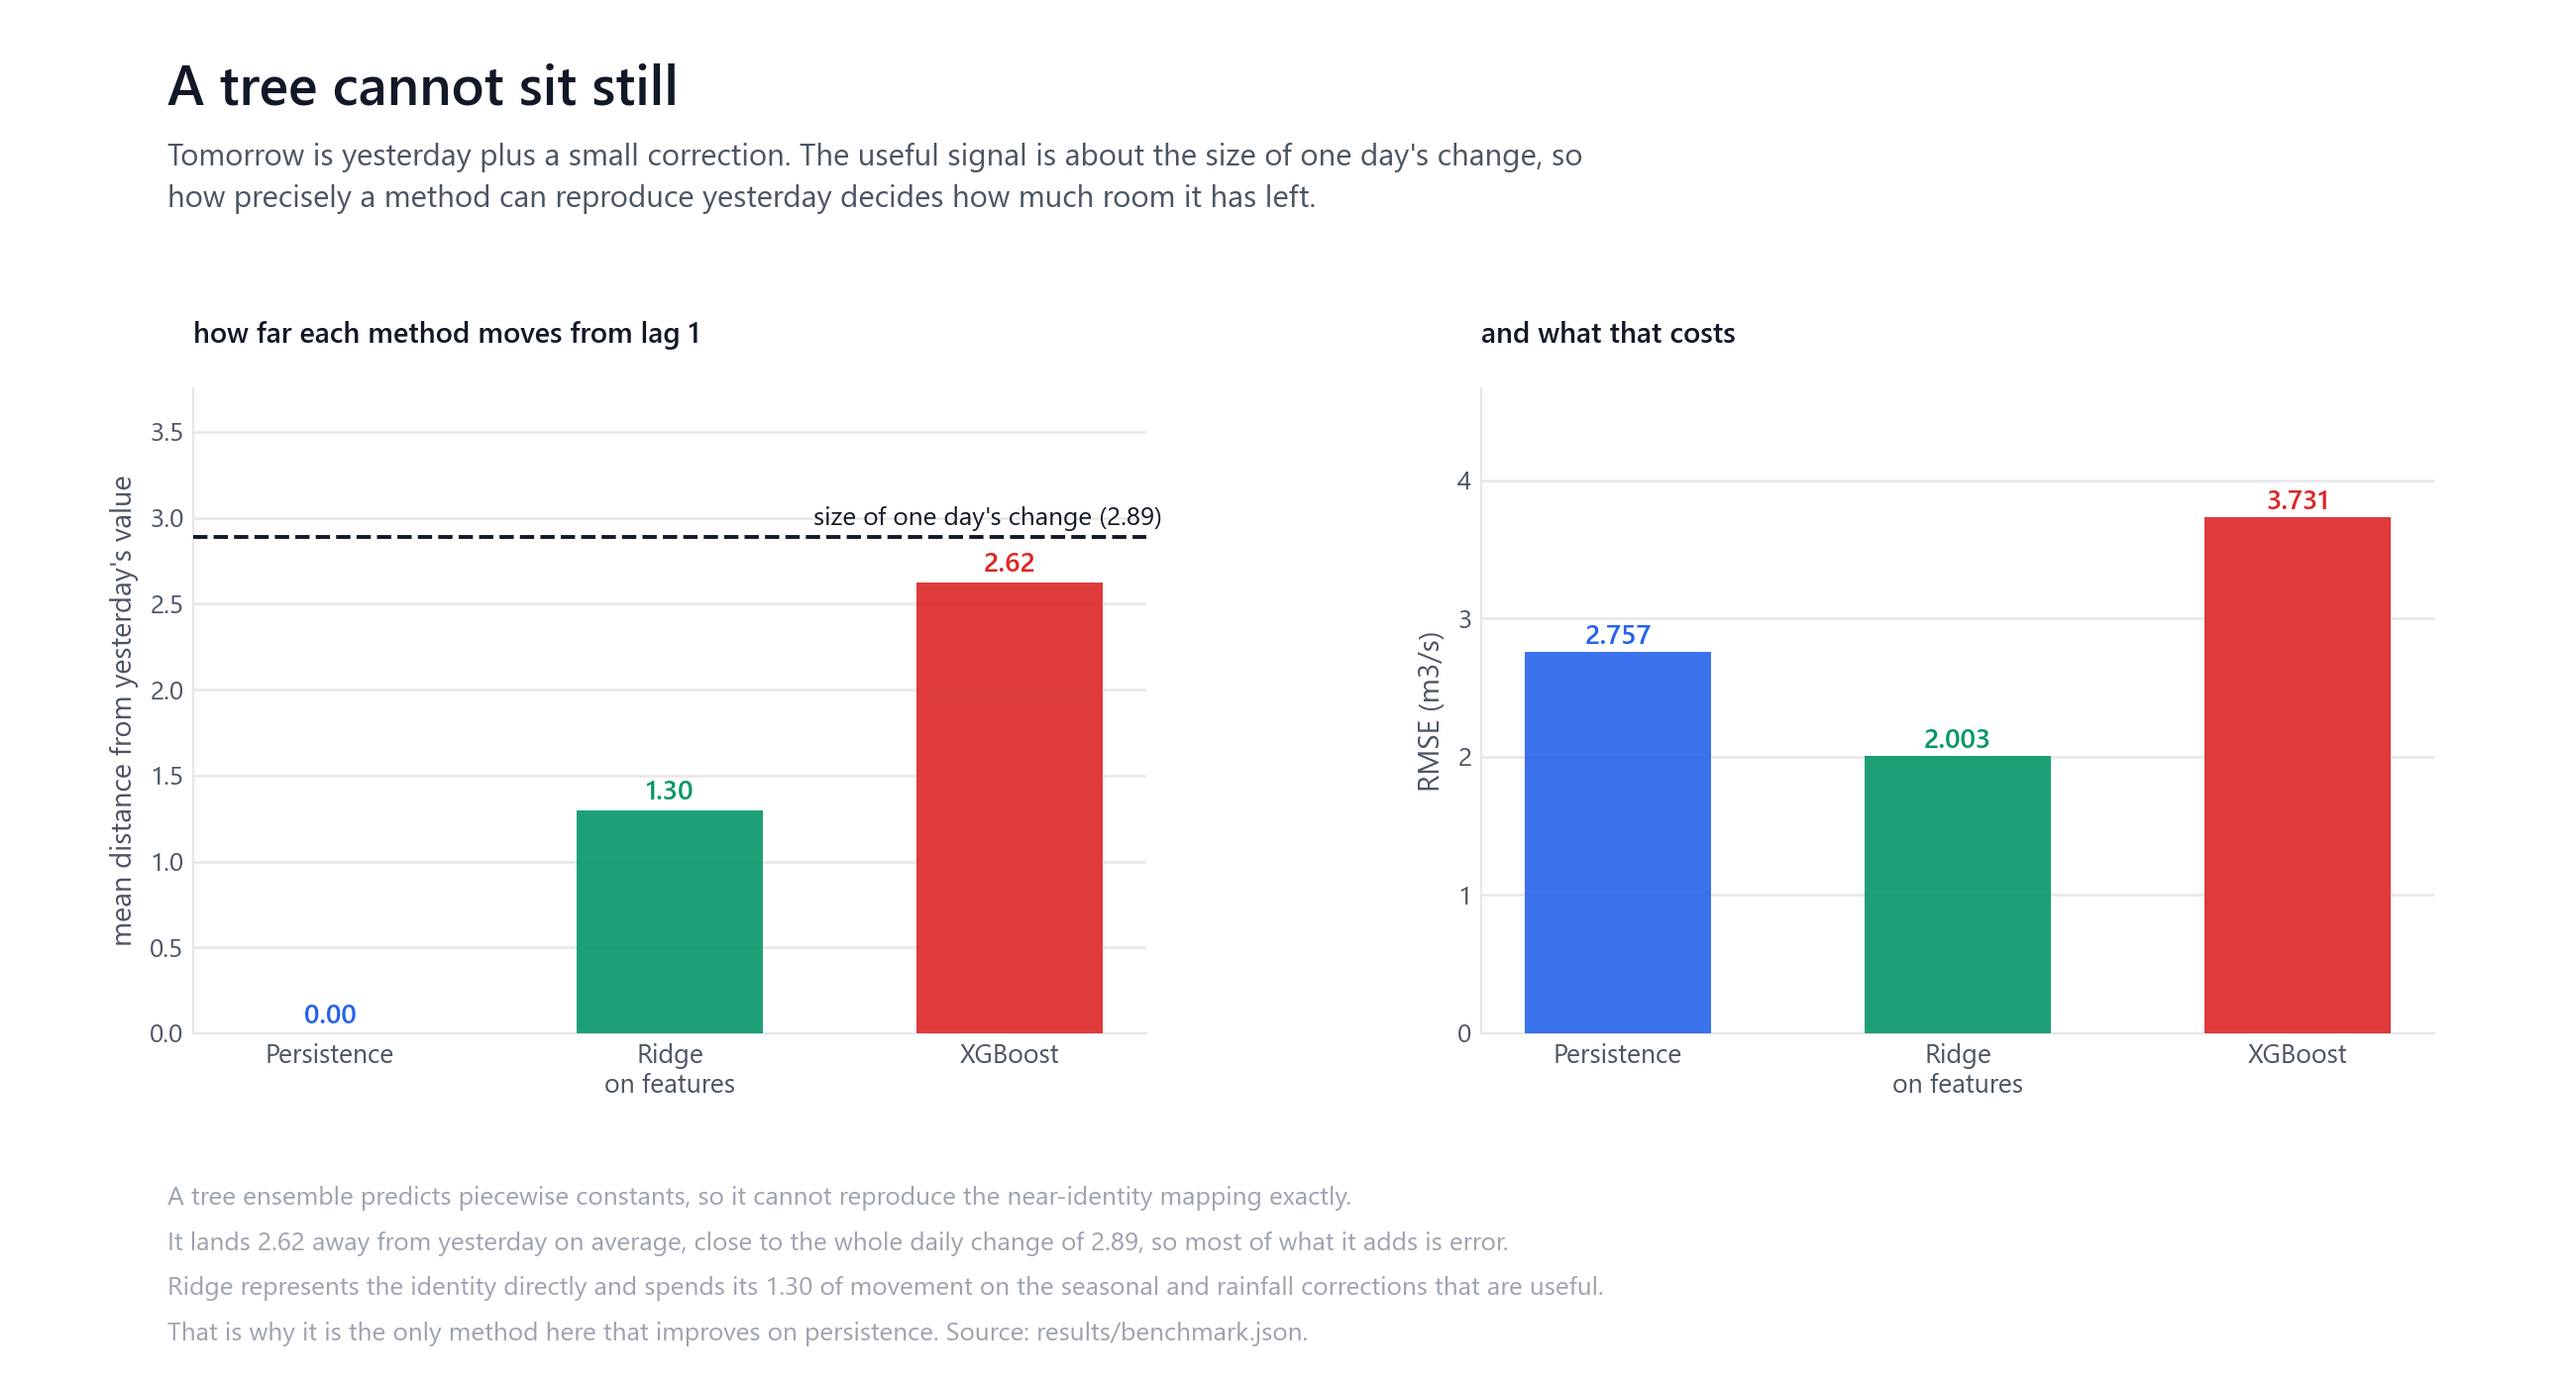
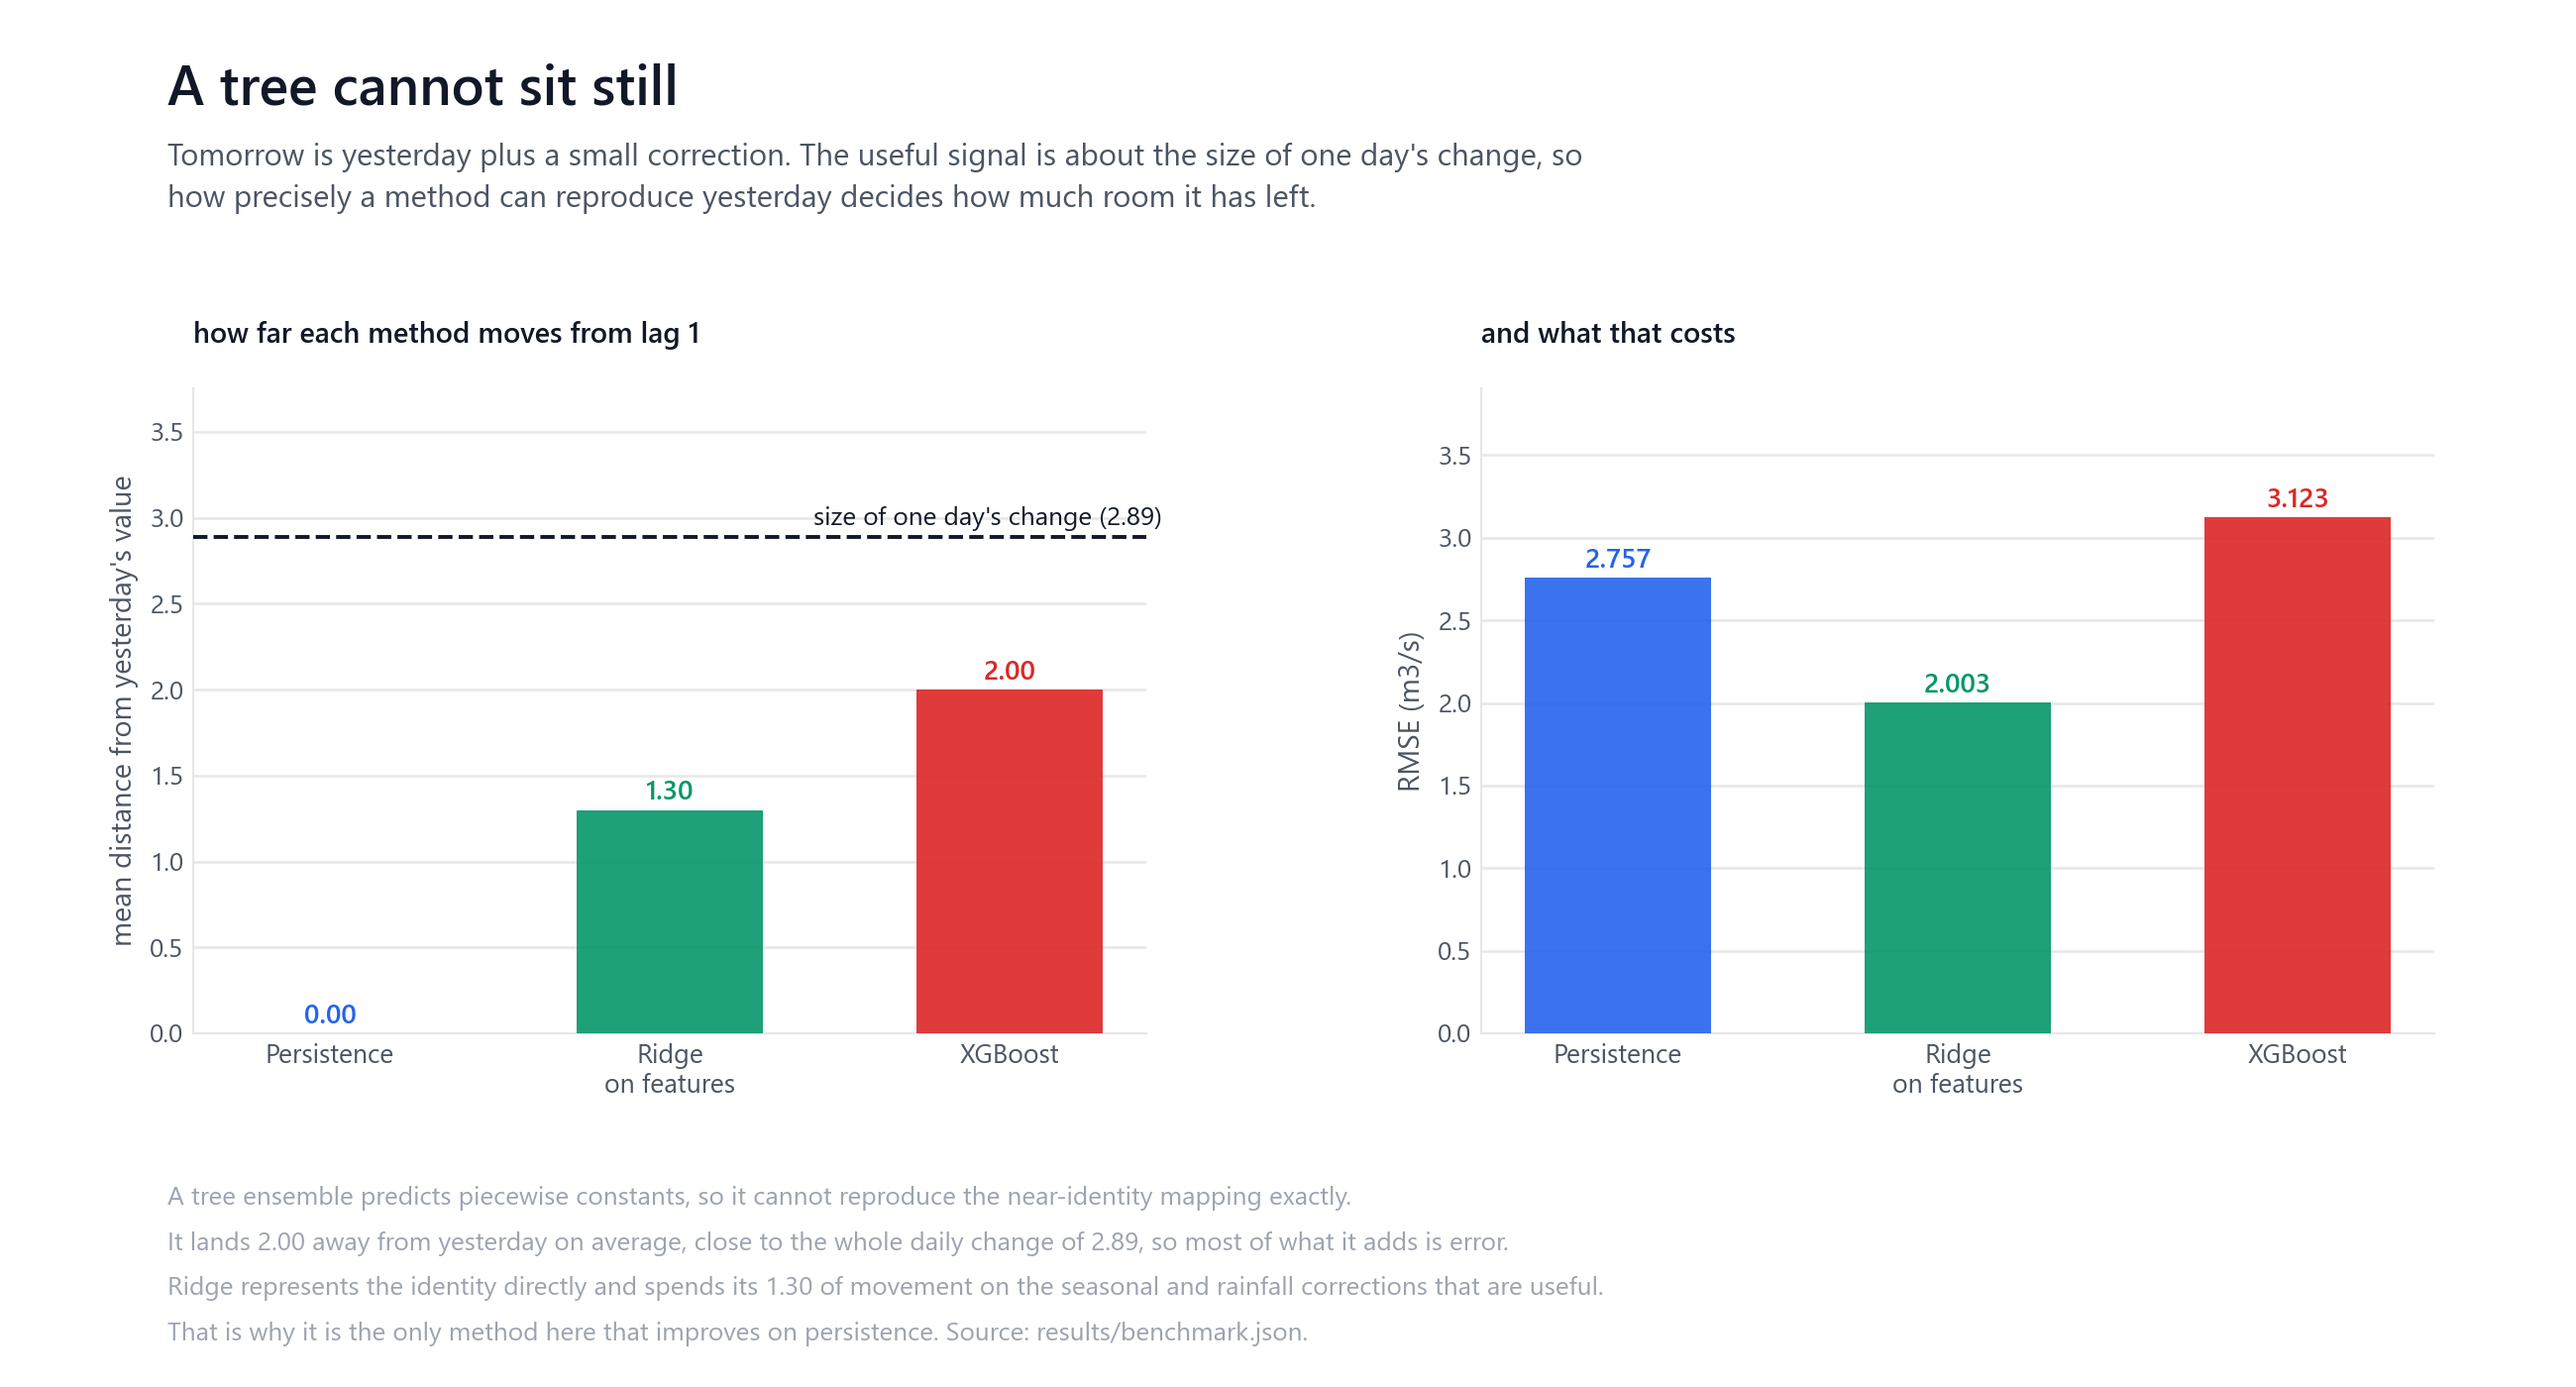
Make XGBoost reproducible, and repeat the finding across seeds
CI produced RMSE 3.864 where this machine produced 3.731 from the same seed and
the same pinned version. The cause is the default histogram tree builder, which
gives a different model for a different thread count, so the published number
depended on the machine that wrote it. tree_method="exact" is thread-independent
and gives 3.123 on any core count.

The central claim rested on one generated series, so it is now repeated on five.
XGBoost fails to beat persistence on all five, and ridge wins on all five. Each
run is recorded in benchmark.json.

diff --git a/src/experiment.py b/src/experiment.py
@@ -22,6 +22,9 @@ import pandas as pd
 
 sys.path.insert(0, os.path.dirname(os.path.abspath(__file__)))
 
+from sklearn.linear_model import Ridge
+from xgboost import XGBRegressor
+
 from baselines import (
     climatology,
     climatology_with_trend,
@@ -37,6 +40,8 @@ OUT = os.path.join(RESULTS, "benchmark.json")
 
 TARGET = "streamflow_m3s"
 TEST_YEARS = 2
+#: Extra generated series used only to check the finding is not seed-specific.
+SEEDS = (42, 7, 123, 2024, 99)
 LAGS = [1, 2, 3, 7, 14, 30, 365]
 WINDOWS = [7, 14, 30]
 
@@ -92,14 +97,14 @@ def main() -> int:
     x_test = feat.loc[feat_test, columns]
     y_test = feat.loc[feat_test, TARGET].to_numpy()
 
-    from sklearn.linear_model import Ridge
-    from xgboost import XGBRegressor
-
     models = {
         "ridge_on_features": Ridge(alpha=1.0).fit(x_train, y_train).predict(x_test),
+        # tree_method="exact" because the default histogram builder gives a
+        # different model for a different thread count, so the published RMSE
+        # depended on the machine that produced it. Exact is thread-independent.
         "xgboost": XGBRegressor(
             n_estimators=500, max_depth=6, learning_rate=0.05, subsample=0.8,
-            colsample_bytree=0.8, random_state=42, n_jobs=2,
+            colsample_bytree=0.8, random_state=42, n_jobs=1, tree_method="exact",
         ).fit(x_train, y_train).predict(x_test),
     }
     # The baselines are recomputed on the model's rows so every daily number in
@@ -158,6 +163,41 @@ def main() -> int:
     }
     daily_change_std = float(np.diff(y).std())
 
+    # One seed is one measurement. The central claim is repeated across several
+    # generated series so it is not a property of seed 42.
+    print("\n  repeating the comparison on other seeds:")
+    robustness = []
+    for other in SEEDS:
+        alt = generate_streamflow(n_years=15, seed=other)
+        alt_y = alt[TARGET].to_numpy()
+        alt_split = alt["date"].max() - pd.Timedelta(days=365 * TEST_YEARS)
+        alt_feat = lag_features(alt)
+        alt_te = (alt_feat["date"] > alt_split).to_numpy()
+        alt_cols = [c for c in alt_feat.columns if c not in ("date", TARGET)]
+        alt_ytest = alt_feat.loc[alt_te, TARGET].to_numpy()
+        alt_index = np.flatnonzero(
+            (alt["date"] > alt_split).to_numpy())[-len(alt_ytest):]
+        scores = {
+            "persistence": metrics(alt_ytest, persistence(alt_y, alt_index))["rmse"],
+            "ridge_on_features": metrics(alt_ytest, Ridge(alpha=1.0).fit(
+                alt_feat.loc[~alt_te, alt_cols], alt_feat.loc[~alt_te, TARGET]).predict(
+                    alt_feat.loc[alt_te, alt_cols]))["rmse"],
+            "xgboost": metrics(alt_ytest, XGBRegressor(
+                n_estimators=500, max_depth=6, learning_rate=0.05, subsample=0.8,
+                colsample_bytree=0.8, random_state=42, n_jobs=1, tree_method="exact",
+            ).fit(alt_feat.loc[~alt_te, alt_cols],
+                  alt_feat.loc[~alt_te, TARGET]).predict(
+                      alt_feat.loc[alt_te, alt_cols]))["rmse"],
+        }
+        scores["xgboost_beats_persistence"] = scores["xgboost"] < scores["persistence"]
+        scores["seed"] = other
+        robustness.append({k: (round(v, 3) if isinstance(v, float) else v)
+                           for k, v in scores.items()})
+        print(f"    seed {other:<5} persistence {scores['persistence']:6.3f}  "
+              f"xgboost {scores['xgboost']:6.3f}  ridge {scores['ridge_on_features']:6.3f}")
+    n_beat = sum(r["xgboost_beats_persistence"] for r in robustness)
+    print(f"    XGBoost beats persistence on {n_beat} of {len(robustness)} seeds")
+
     best_daily = min(daily_scores, key=lambda k: daily_scores[k]["rmse"])
     payload = {
         "environment": {
@@ -184,6 +224,11 @@ def main() -> int:
             "note": "the useful daily correction is about the size of daily_change_std; "
                     "a method whose deviation from lag1 exceeds it adds more error "
                     "than signal",
+        },
+        "robustness": {
+            "seeds": robustness,
+            "xgboost_beats_persistence_count": n_beat,
+            "seeds_tested": len(robustness),
         },
         "best_daily": best_daily,
         "xgboost_beats_persistence": bool(

diff --git a/README.md b/README.md
@@ -58,13 +58,17 @@ Daily, all six scored on the same 730 held-out days, the last two years:
 | **Ridge on features** | **2.003** | **1.596** | **0.994** |
 | Random walk with drift | 2.757 | 2.140 | 0.988 |
 | Persistence | 2.757 | 2.139 | 0.988 |
-| XGBoost | 3.731 | 2.890 | 0.978 |
+| XGBoost | 3.123 | 2.430 | 0.985 |
 | Day-of-year mean plus trend | 7.135 | 5.541 | 0.921 |
 | Day-of-year mean | 90.299 | 89.935 | -11.692 |
 
 XGBoost, reading twenty engineered lag, rolling and calendar features, is beaten by
 a one-line baseline. A ridge model on those same features is the only method that
 improves on persistence, and it does so by a real margin.
+
+This is not a quirk of one generated series. Repeating the whole comparison on
+five seeds, XGBoost fails to beat persistence on **all five**, and ridge wins on
+all five. `results/benchmark.json` records each run.
 
 The day-of-year mean's -11.69 is entirely the drift. Given the training trend to
 extrapolate, the same seasonal information reaches 0.921. Reporting the broken
@@ -79,8 +83,8 @@ is 2.89 against a series standard deviation of 55. So the entire job is predicti
 a small correction on top of a number the model already has.
 
 A tree ensemble predicts piecewise constants. It cannot represent the identity
-function exactly, and on average it lands 2.62 away from yesterday's value, which
-is nearly the size of the whole daily change. Most of that movement is error rather
+function exactly, and on average it lands 2.05 away from yesterday's value, most of
+the size of the whole daily change. Most of that movement is error rather
 than signal.
 
 Ridge represents the identity directly, with a coefficient near one on lag 1, and
@@ -106,7 +110,7 @@ Both granularities are reported, separately, each with its own baselines.
 
 Read on its own terms, SARIMAX does well: it beats a monthly random walk clearly,
 which is a genuine result the original framing obscured. What cannot be done is
-compare its 0.963 with a daily 0.978 and call one better.
+compare its 0.963 with a daily 0.985 and call one better.
 
 ## Reproducing
 
@@ -143,8 +147,9 @@ coefficient, or a target that was not dominated by its own lag, could reverse th
 ordering entirely. Nothing here says gradient boosting is generally unsuited to
 time series.
 
-The test period is a single contiguous two years scored once, with no repeated
-seeds, so the margins are single measurements rather than confidence intervals.
+The test period is a single contiguous two years per seed. The central finding is
+repeated on five generated series, where XGBoost fails to beat persistence on all
+five, but the margins themselves are point estimates rather than intervals.
 
 The models forecast one step ahead with the true previous value available. That is
 the easiest version of the problem, and multi-step forecasting, where errors
